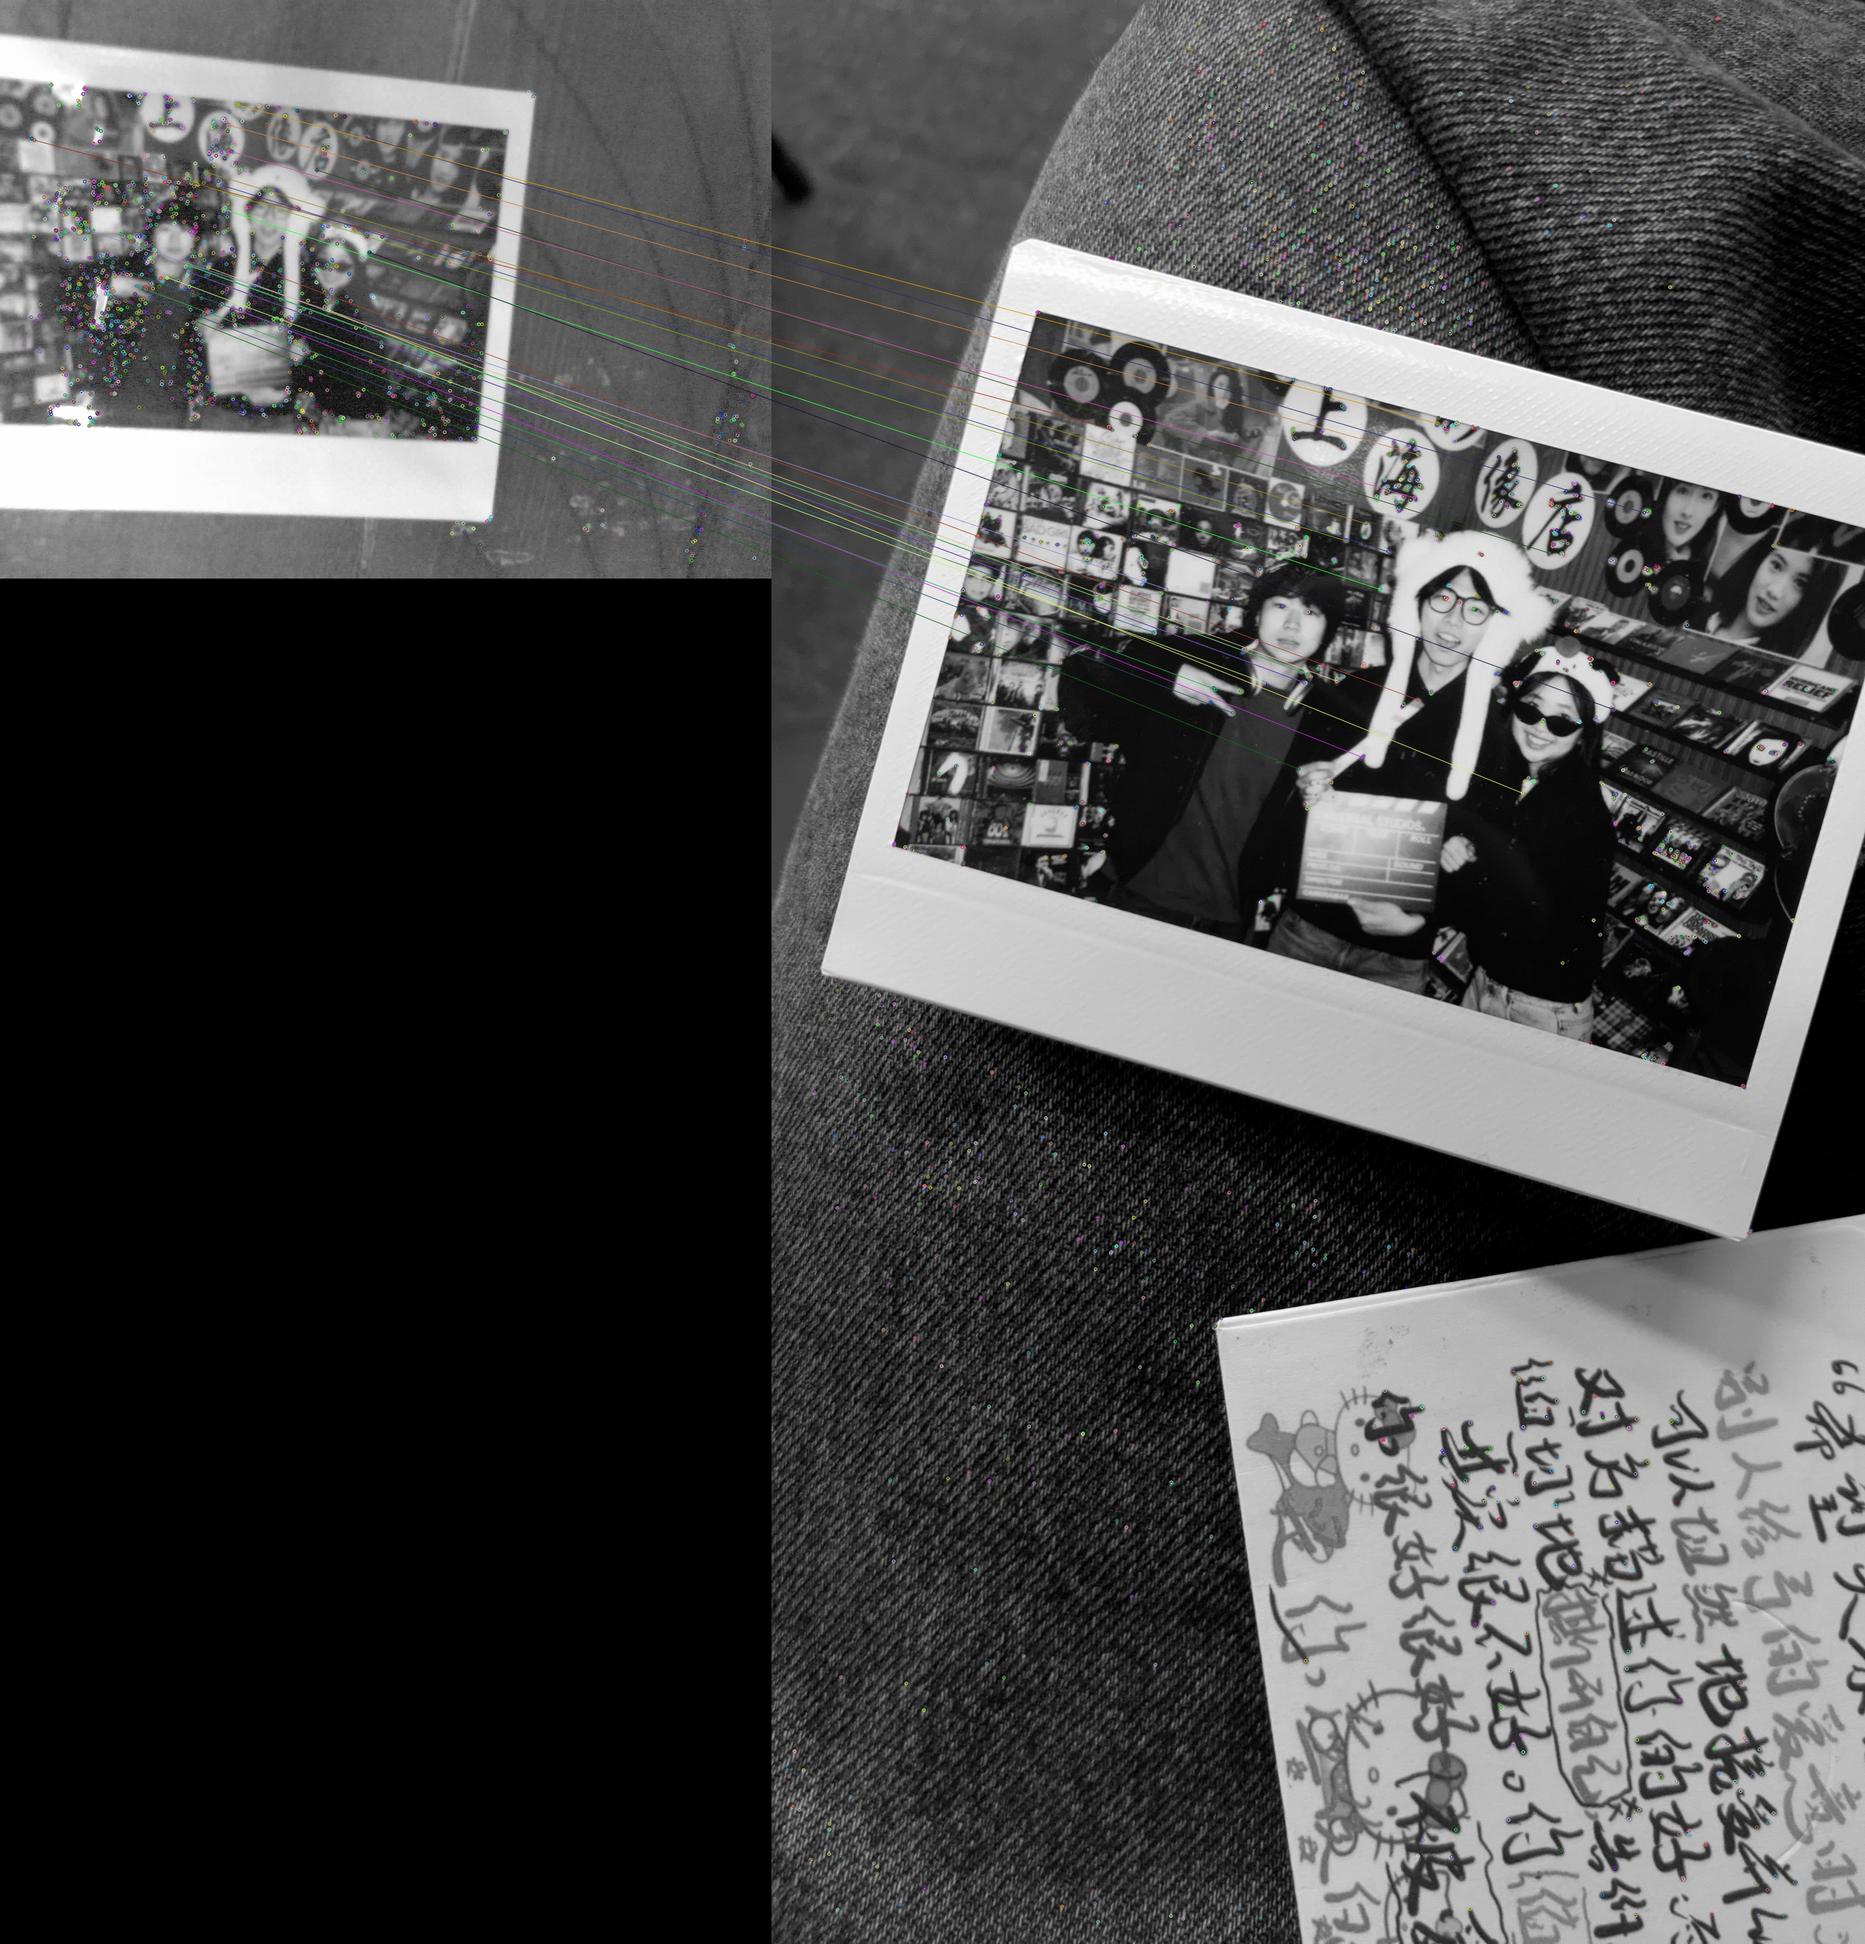
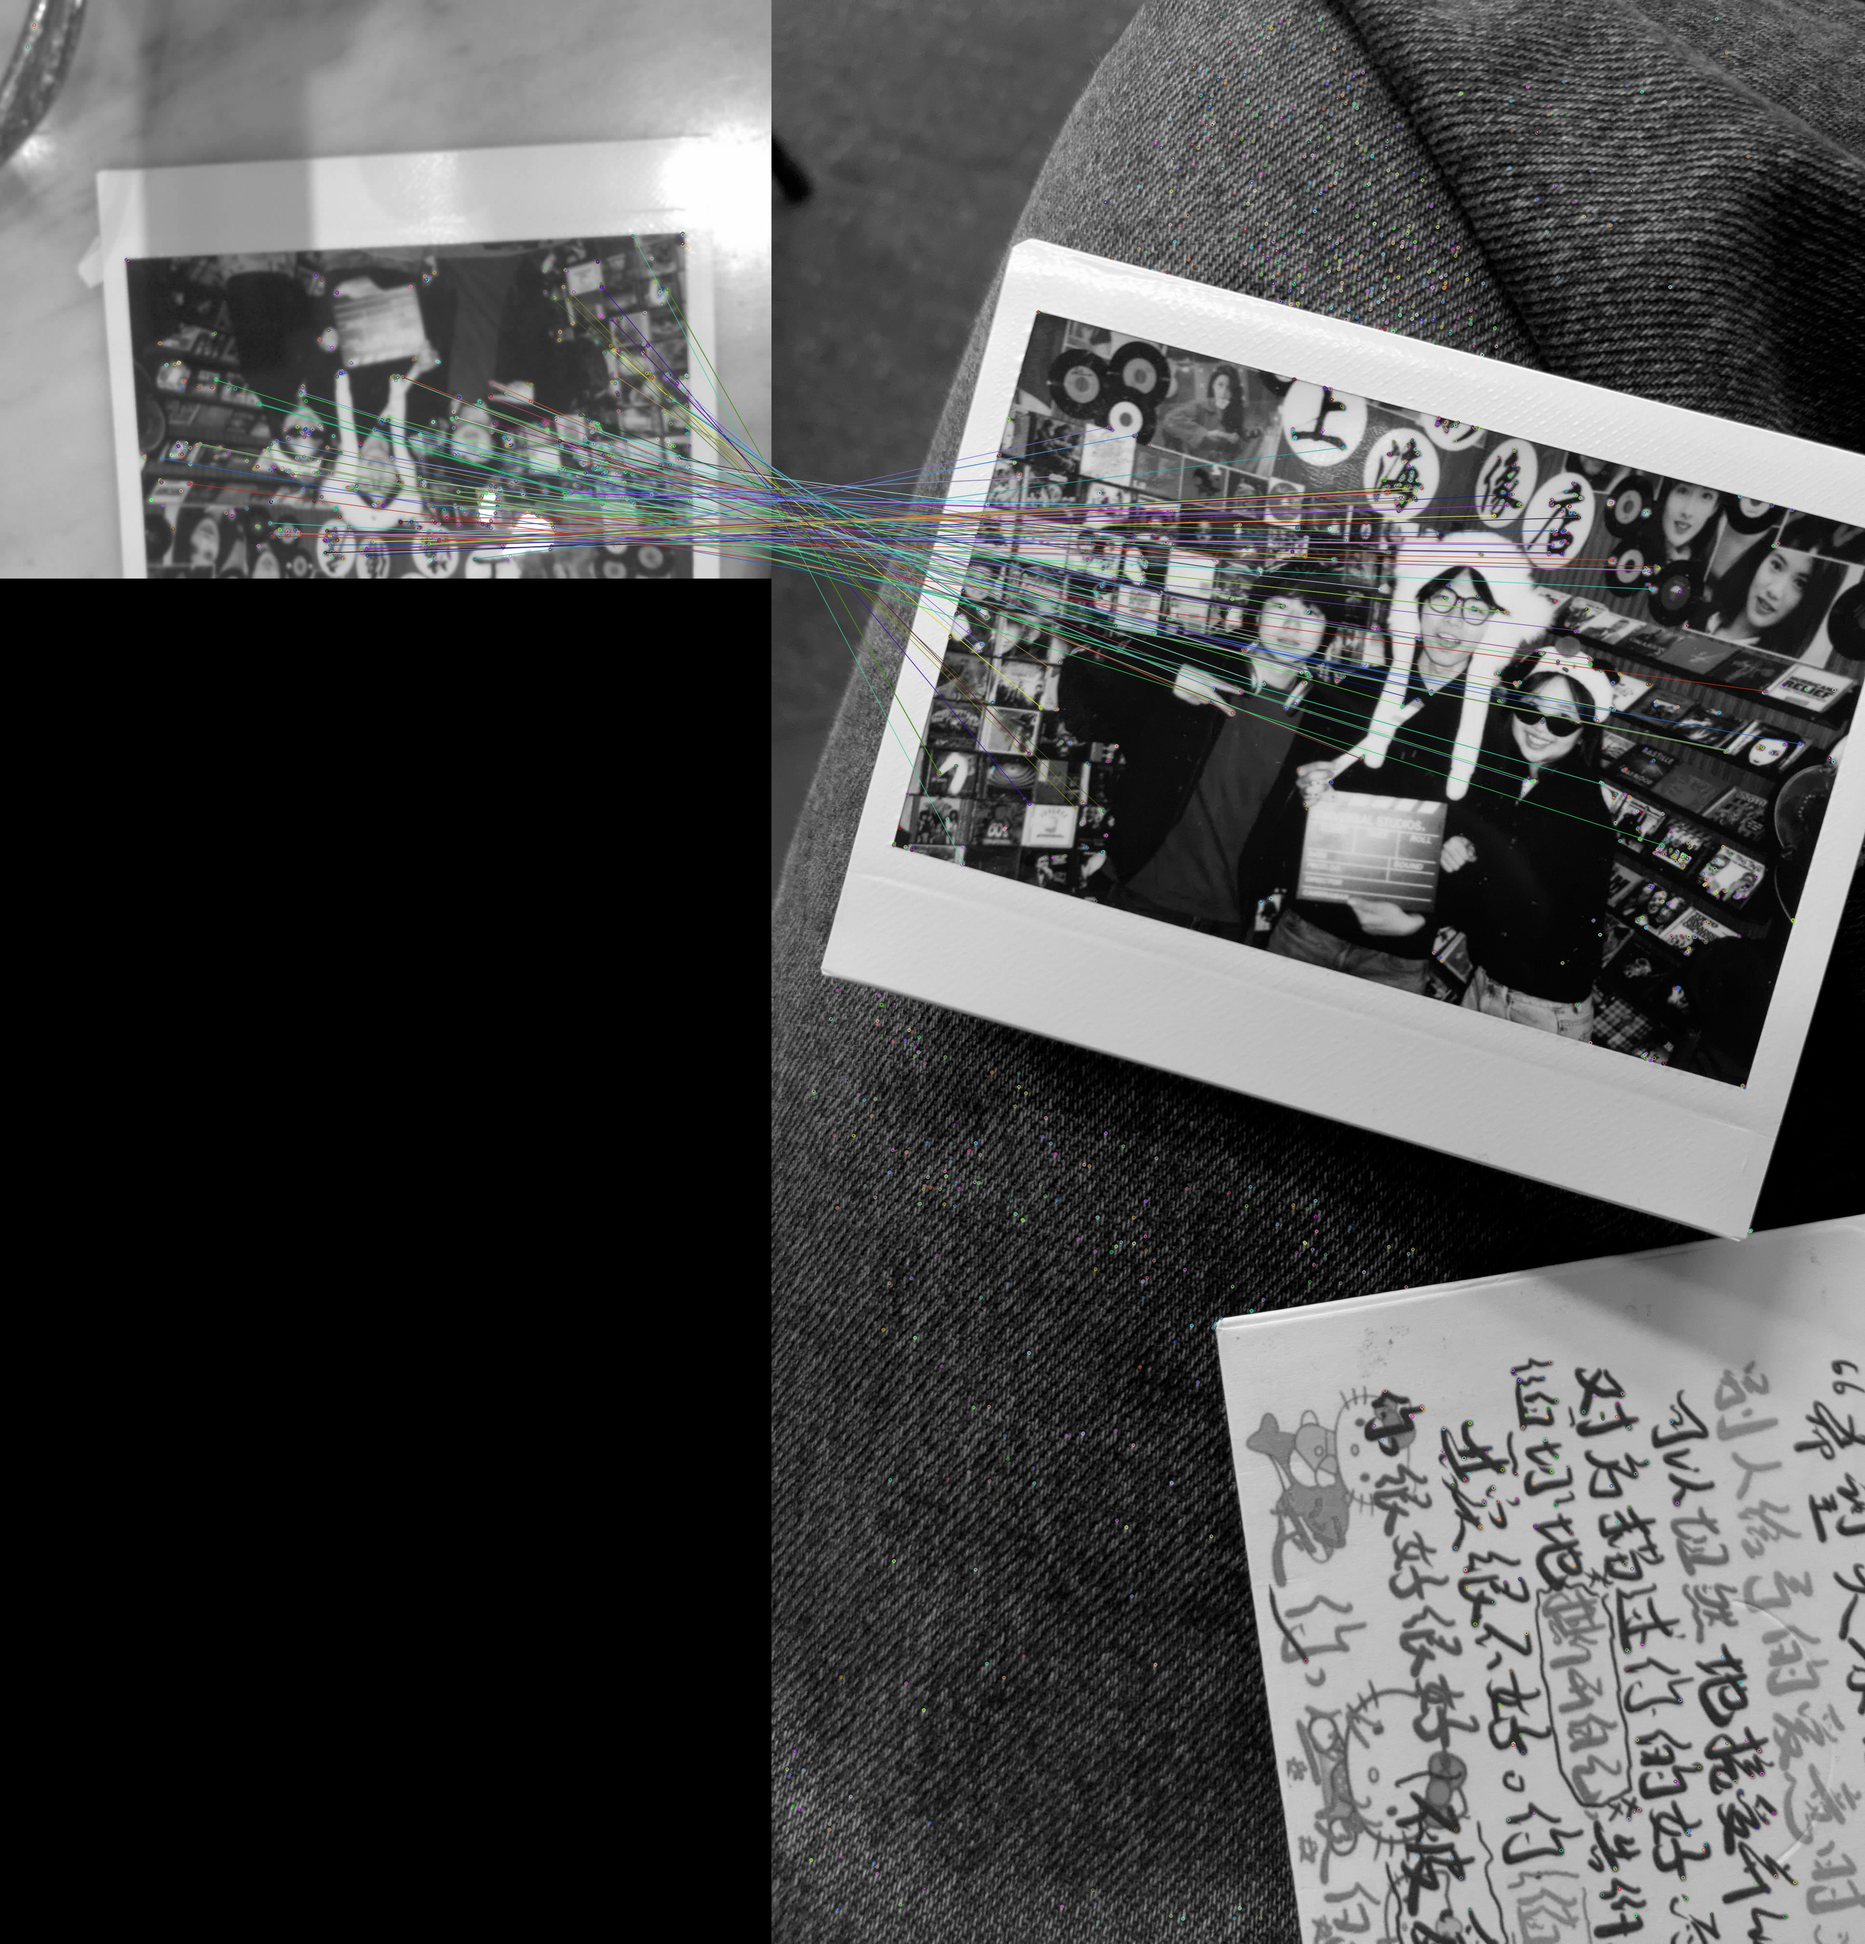
added dinov2 combined scoring with ORB algorithm, waiting on dinov3 access

Changed region(s): [[0.0, 0.0, 0.8687, 0.4062], [0.7135, 0.125, 0.7446, 0.1562]]

diff --git a/memory record player/image matching opencv.py b/memory record player/image matching opencv.py
@@ -3,25 +3,54 @@ import numpy as np
 import requests
 import os
 import torch
+import torch.nn.functional as F
 from PIL import Image
-from facenet_pytorch import MTCNN, InceptionResnetV1
+from transformers import AutoImageProcessor, AutoModel
 
-ESP32_URL        = "http://10.0.0.94:81/jpeg"
-DATASET_FOLDER  = "image_dataset"
-output_folder    = "match_results"
+ESP32_URL        = "http://192.168.1.184:81/jpeg"
+DATASET_FOLDER = "memory record player/image_dataset"
+output_folder = "memory record player/match_results"
 
 MAX_KEYPOINTS    = 3000   # more = slower but more accurate
 MATCH_THRESHOLD  = 0.80  # Lowe's ratio test — lower = stricter (0.6–0.8 typical)
 GOOD_MATCH_MIN   = 20     # minimum RANSAC inliers to consider a positive match
 RANSAC_THRESHOLD = 5.0    # max pixel reprojection error for RANSAC inlier (lower = stricter)
+TOP_DINO_MATCHES   = 5     # number of top DINO matches to consider for final decision
 
-FACE_SIMILARITY_THRESHOLD = 0.5  # Adjust based on your needs (0.6–0.9 typical)
+DINO_MODEL_NAME = "facebook/dinov2-base"
 
-# FaceNet Setup
-mtcnn = MTCNN(thresholds=[0.5, 0.6, 0.6])  # default is [0.6, 0.7, 0.7]
-resnet = InceptionResnetV1(pretrained='vggface2').eval()
+device = "cuda" if torch.cuda.is_available() else "cpu" #uses RTX5060 cuda cores, if not available use CPU
+dino_processor = AutoImageProcessor.from_pretrained(DINO_MODEL_NAME) 
+dino_model = AutoModel.from_pretrained(DINO_MODEL_NAME).to(device) #automodel automa
+dino_model.eval() #set model to evaluation mode (disables dropout, etc.) since we're only doing inference
 
-def get_image_from_esp32():
+#dinov3 splits the image into patches and processes them through a vision transformer
+#output is a fixed lenght embedding vector that assigns values to each patch
+
+
+def get_dino_embedding(image_bgr):
+    image_rgb = cv2.cvtColor(image_bgr, cv2.COLOR_BGR2RGB) #converts BGR to RGB format for DINOv3
+    pil_image = Image.fromarray(image_rgb) #converts numpy array to PILLOW image
+
+    inputs = dino_processor(images=pil_image, return_tensors="pt").to(device) #preprocesses image and converts to PyTorch tensor, moves to GPU if available
+
+    with torch.no_grad():
+        outputs = dino_model(**inputs)
+
+    if hasattr(outputs, "pooler_output") and outputs.pooler_output is not None:
+        embedding = outputs.pooler_output
+    else:
+        embedding = outputs.last_hidden_state[:, 0, :] #grabs image embedding from the [CLS] token
+
+    embedding = F.normalize(embedding, p=2, dim=1)
+
+    return embedding
+
+def get_dino_similarity(embedding1, embedding2):
+    similarity = torch.matmul(embedding1, embedding2.T).item()
+    return similarity
+
+def get_image_from_esp32(): 
     response = requests.get(ESP32_URL)
     image_array = np.frombuffer(response.content, np.uint8)
     physical_image = cv2.imdecode(image_array, cv2.IMREAD_COLOR)
@@ -31,46 +60,40 @@ def get_digital_image(image_path):
     digital_image = cv2.imread(image_path, cv2.IMREAD_COLOR)
     return digital_image
 
-def get_face_embedding(bgr_img):
-    rgb_img = cv2.cvtColor(bgr_img, cv2.COLOR_BGR2RGB)
-    pil_img = Image.fromarray(rgb_img)
-    face    = mtcnn(pil_img)  # detects and crops face to 160x160
-    print(f"Face detected: {'YES' if face is not None else 'NO'}")
-    if face is None:
-        return None
-    with torch.no_grad():
-        embedding = resnet(face.unsqueeze(0))  # get 512-dim embedding
-    return torch.nn.functional.normalize(embedding, dim=-1)
-
-def face_similarity(emb1, emb2):
-    return (emb1 @ emb2.T).item()  # cosine similarity, -1 to 1
-
 # Create output folder if it doesn't exist
 os.makedirs(output_folder, exist_ok=True)
 
 # Fetch ESP32 image once before the loop
-im1_bgr  = get_image_from_esp32()
-im1_gray = cv2.cvtColor(im1_bgr, cv2.COLOR_BGR2GRAY) #grayscale
-im1_gray = cv2.flip(im1_gray, 1)  # 1 = horizontal flip, 0 = vertical, -1 = both
-im1_bgr  = cv2.flip(im1_bgr, 1)
+physical_image = get_image_from_esp32()
+physical_image = cv2.flip(physical_image, 1)  # 1 = horizontal flip, 0 = vertical, -1 = both
 
-esp32_embedding = get_face_embedding(im1_bgr)
+im1_gray = cv2.cvtColor(physical_image, cv2.COLOR_BGR2GRAY) #grayscale
+
+# DINOv3 embedding for ESP32 image
+esp32_dino_embedding = get_dino_embedding(physical_image)
 
 orb     = cv2.ORB_create(nfeatures=MAX_KEYPOINTS)
-matcher = cv2.BFMatcher(cv2.DESCRIPTOR_MATCHER_BRUTEFORCE_HAMMING, crossCheck=False) #finds hamming distance between descriptors
+matcher = cv2.BFMatcher(cv2.NORM_HAMMING, crossCheck=False) #finds hamming distance between descriptors
 
 # Save ESP32 keypoints once
 keypoints1, descriptors1 = orb.detectAndCompute(im1_gray, None)
 im1_display = cv2.drawKeypoints(im1_gray, keypoints1, None, color=(255,0,0), flags=cv2.DRAW_MATCHES_FLAGS_DEFAULT) #draws keypoints
 cv2.imwrite("esp32imagekp.jpg", im1_display)
 
+results = []
+
 for filename in os.listdir(DATASET_FOLDER):
     if not filename.lower().endswith(('.png', '.jpg', '.jpeg')):
         continue
 
-    path    = os.path.join(DATASET_FOLDER, filename)
-    im2_bgr  = get_digital_image(path)
-    im2_gray = cv2.cvtColor(im2_bgr, cv2.COLOR_BGR2GRAY) #grayscale
+    path = os.path.join(DATASET_FOLDER, filename)
+
+    digital_image = get_digital_image(path)
+    im2_gray = cv2.cvtColor(digital_image, cv2.COLOR_BGR2GRAY) #grayscale
+
+    # DINOv3 similarity score
+    digital_dino_embedding = get_dino_embedding(digital_image) #compute DINO embedding for digital image
+    dino_score = get_dino_similarity(esp32_dino_embedding, digital_dino_embedding) #compute cosine similarity between ESP32 and digital embeddings
 
     keypoints1, descriptors1 = orb.detectAndCompute(im1_gray, None)
     keypoints2, descriptors2 = orb.detectAndCompute(im2_gray, None)
@@ -97,6 +120,7 @@ for filename in os.listdir(DATASET_FOLDER):
 
     if len(good_matches) < 4:
         print(f"{filename}: not enough matches for homography, skipping") #need at least 4 matches to compute homography
+        print(f"{filename}: DINOv3 similarity — {dino_score:.4f}")
         continue
 
     points1 = np.zeros((len(good_matches), 2), dtype=np.float32)
@@ -105,23 +129,41 @@ for filename in os.listdir(DATASET_FOLDER):
     for i, match in enumerate(good_matches):
         points1[i, :] = keypoints1[match.queryIdx].pt
         points2[i, :] = keypoints2[match.trainIdx].pt
-    h, mask = cv2.findHomography(points1, points2, cv2.RANSAC, RANSAC_THRESHOLD)
+    h, mask = cv2.findHomography(points1, points2, cv2.RANSAC, RANSAC_THRESHOLD) #uses RANSAC to find homography and filter out outliers, returns mask of inliers
 
-    inlier_matches = [good_matches[i] for i in range(len(good_matches)) if mask[i]]
+    inlier_matches = []
+
+    if mask is not None:
+        mask = mask.ravel().tolist()
+        inlier_matches = [good_matches[i] for i in range(len(good_matches)) if mask[i]]
 
     is_match = len(inlier_matches) >= GOOD_MATCH_MIN
+    print(f"{filename}: {len(inlier_matches)} inliers — {'YES' if is_match else 'NO'}")
+    print(f"{filename}: DINOv3 similarity — {dino_score:.4f}")
 
-    # Face similarity — only runs if both images have a detected face
-    face_result = "no face"
-    if esp32_embedding is not None:
-        ref_embedding = get_face_embedding(im2_bgr)
-        if ref_embedding is not None:
-            score       = face_similarity(esp32_embedding, ref_embedding)
-            face_result = f"{score:.4f} ({'MATCH' if score >= FACE_SIMILARITY_THRESHOLD else 'NO MATCH'})"
-
-    print(f"{filename}: {len(inlier_matches)} inliers — {'YES' if is_match else 'NO'} | face: {face_result}")
+    results.append({
+        "filename": filename,
+        "inliers": len(inlier_matches),
+        "dino_score": dino_score,
+        "is_match": is_match
+    })
 
     im_matches = cv2.drawMatches(im1_gray, keypoints1, im2_gray, keypoints2, inlier_matches, None)
     cv2.imwrite(os.path.join(output_folder, f"matches_{filename}"), im_matches)
+
+if len(results) > 0:
+    best_orb = max(results, key=lambda x: x["inliers"]) 
+    best_dino = max(results, key=lambda x: x["dino_score"])
+
+    print("\n===== BEST ORB/RANSAC MATCH =====")
+    print(f"File: {best_orb['filename']}")
+    print(f"Inliers: {best_orb['inliers']}")
+    print(f"DINOv3 similarity: {best_orb['dino_score']:.4f}")
+    print(f"Match: {'YES' if best_orb['is_match'] else 'NO'}")
+
+    print("\n===== BEST DINOv3 SIMILARITY MATCH =====")
+    print(f"File: {best_dino['filename']}")
+    print(f"DINOv3 similarity: {best_dino['dino_score']:.4f}")
+    print(f"Inliers: {best_dino['inliers']}")
 
 print(f"\nDone. Results saved to '{output_folder}/'")
